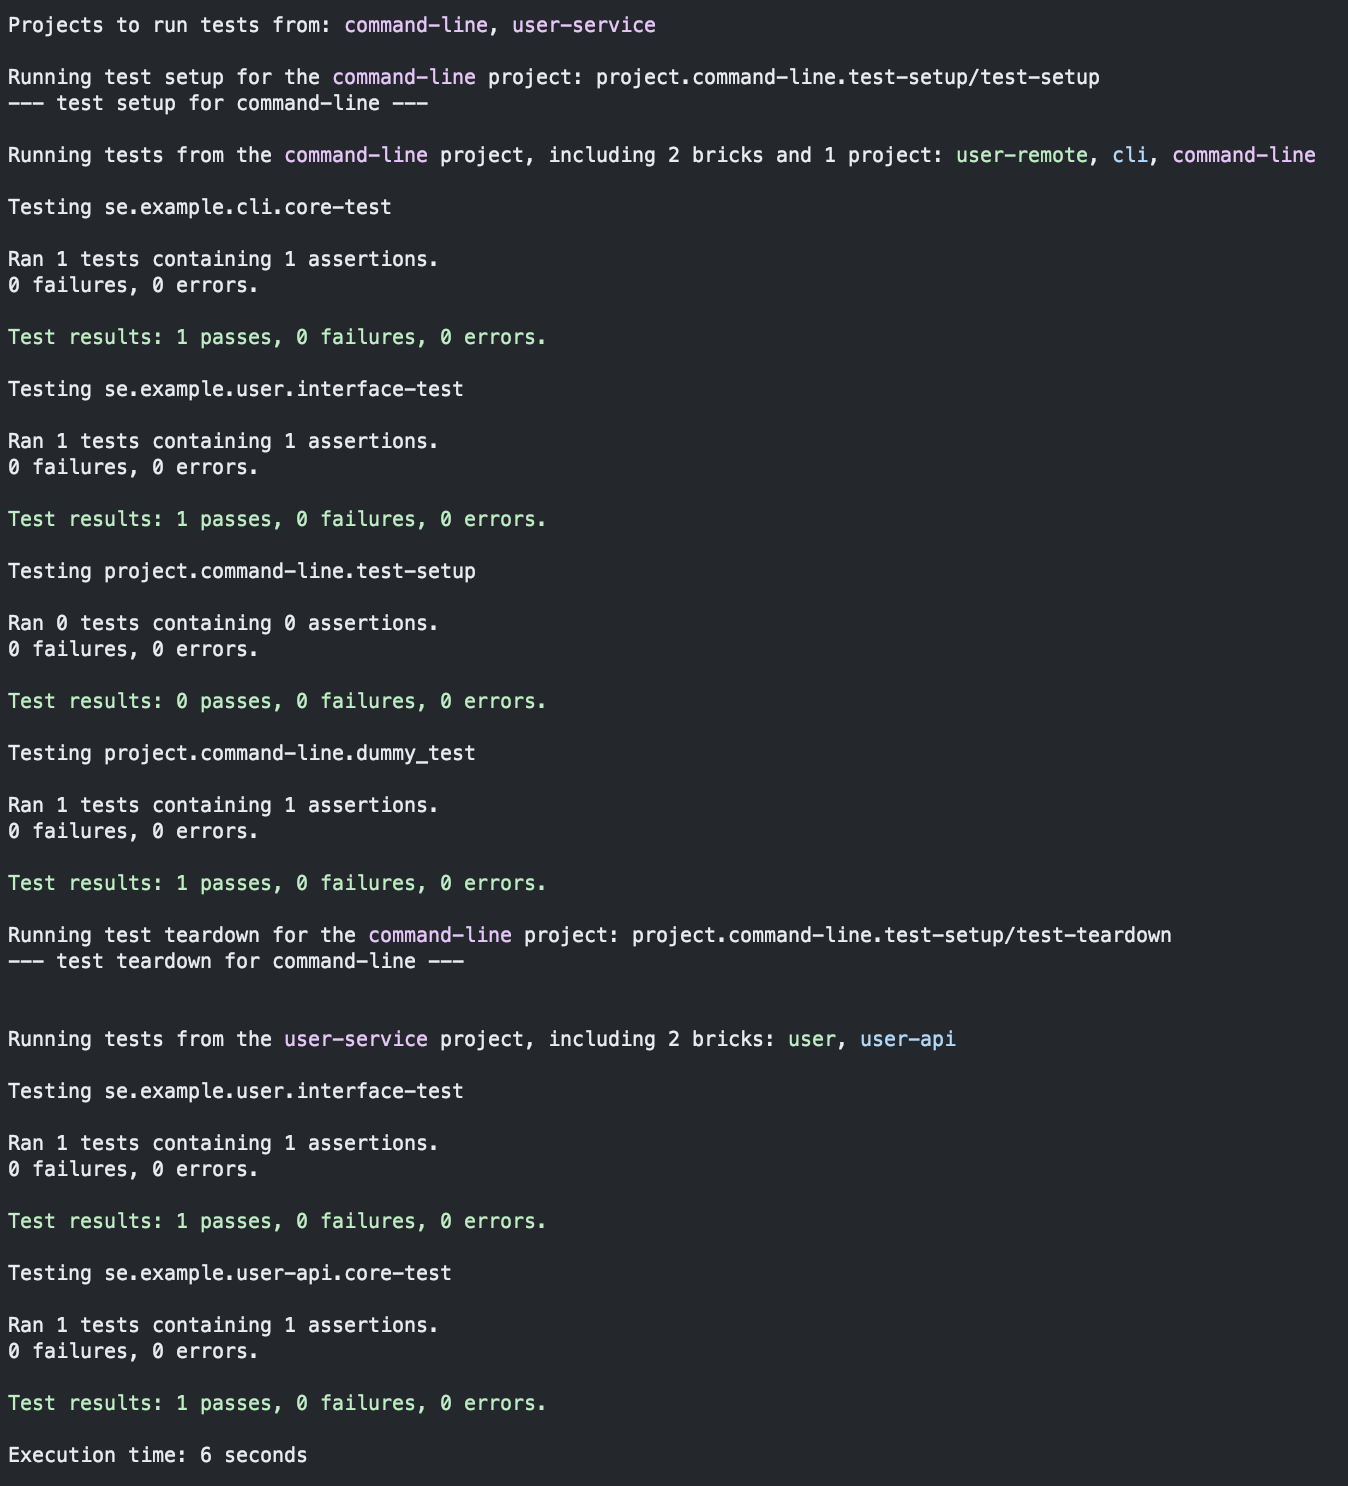
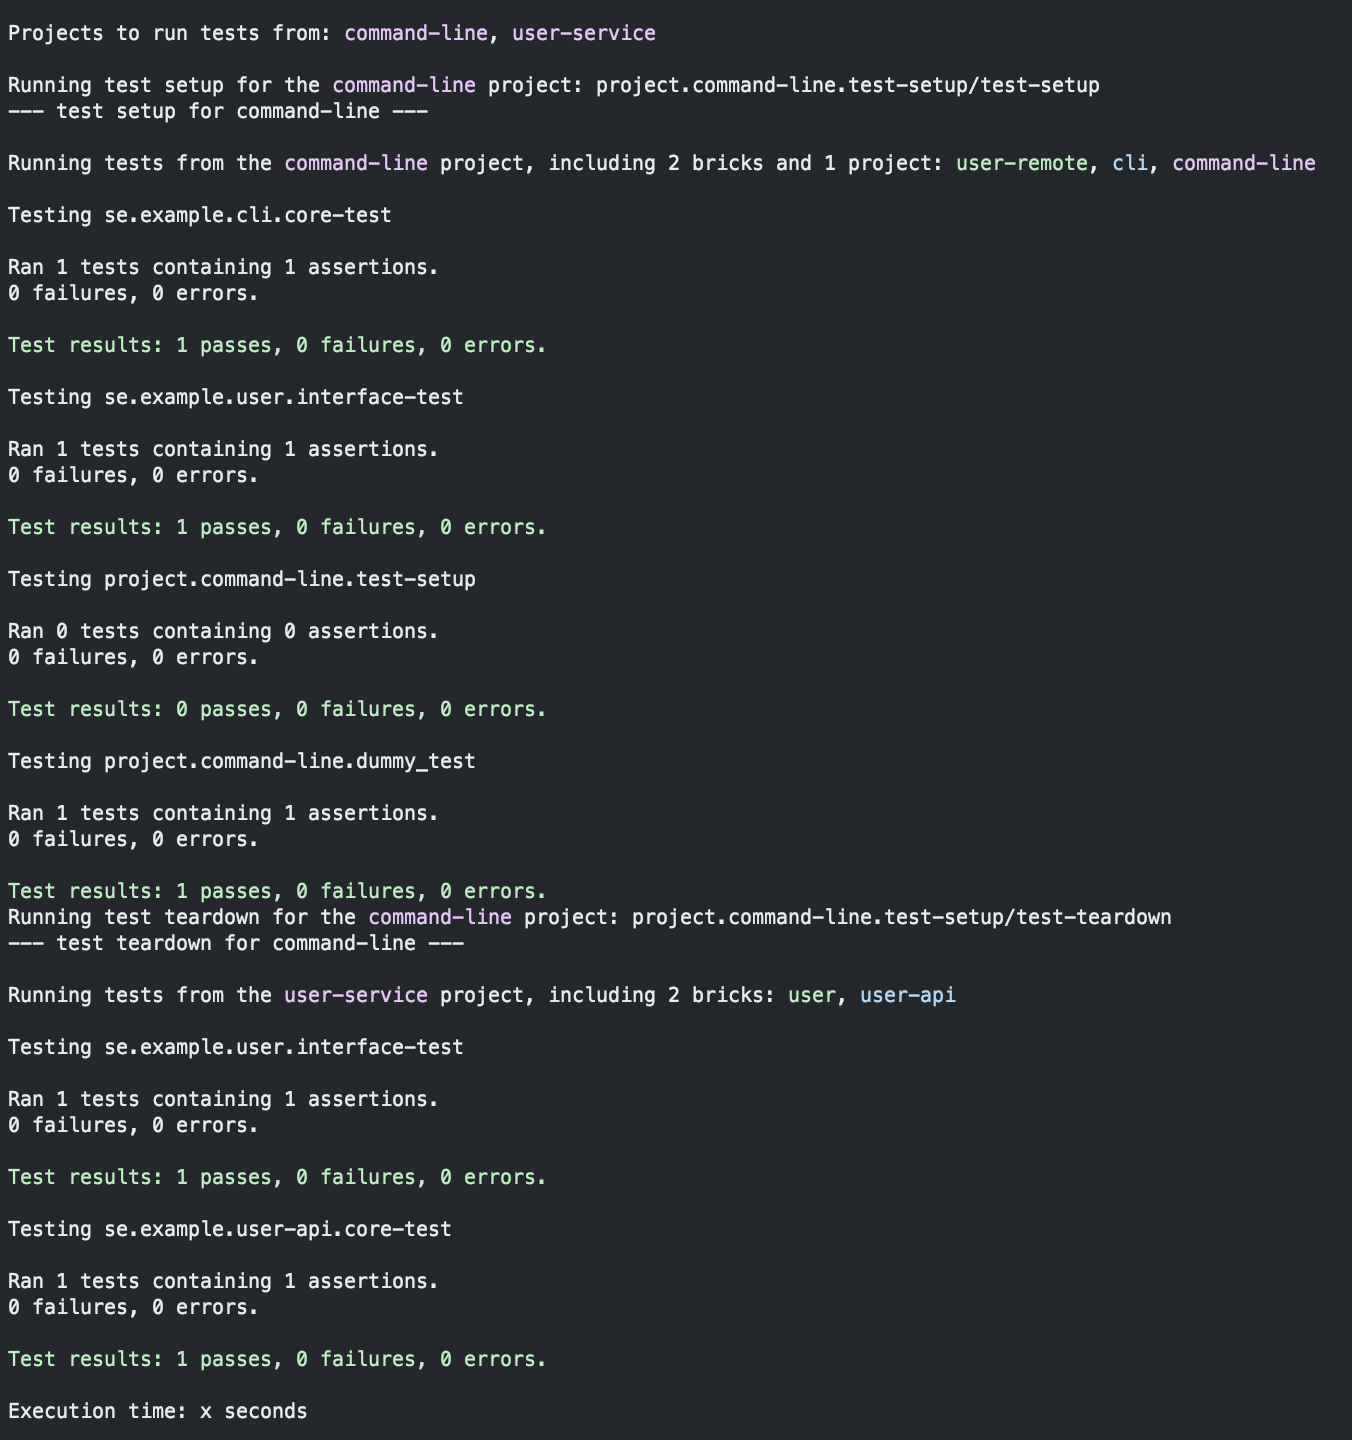
Updated version to 0.2.0-alpha11.issue-110.2. Fixed empty line in the test execution output.

diff --git a/readme.md b/readme.md
@@ -2042,7 +2042,7 @@ Looks like it worked!
 Sometimes we need to perform some test setup/teardown before and after we execute the tests for a project.
 
 If any code is used by more than one project, we can put it in a separate component,
-but in this case we should put it the code in the `command-line` project's `test` directory
+but in this case we should put it in the `command-line` project's `test` directory
 because it's not used by any other project.
 
 Let's create a `test-setup` namespace in the project's test directory and add two functions to it:

diff --git a/doc/commands.md b/doc/commands.md
@@ -27,7 +27,7 @@ poly help
 ```
 
 ```
-  Poly 0.2.0-alpha11 (2021-08-08) - https://github.com/polyfy/polylith
+  Poly 0.2.0-alpha11.issue-110.2 (2021-08-28) - https://github.com/polyfy/polylith
 
   poly CMD [ARGS] - where CMD [ARGS] are:
 
